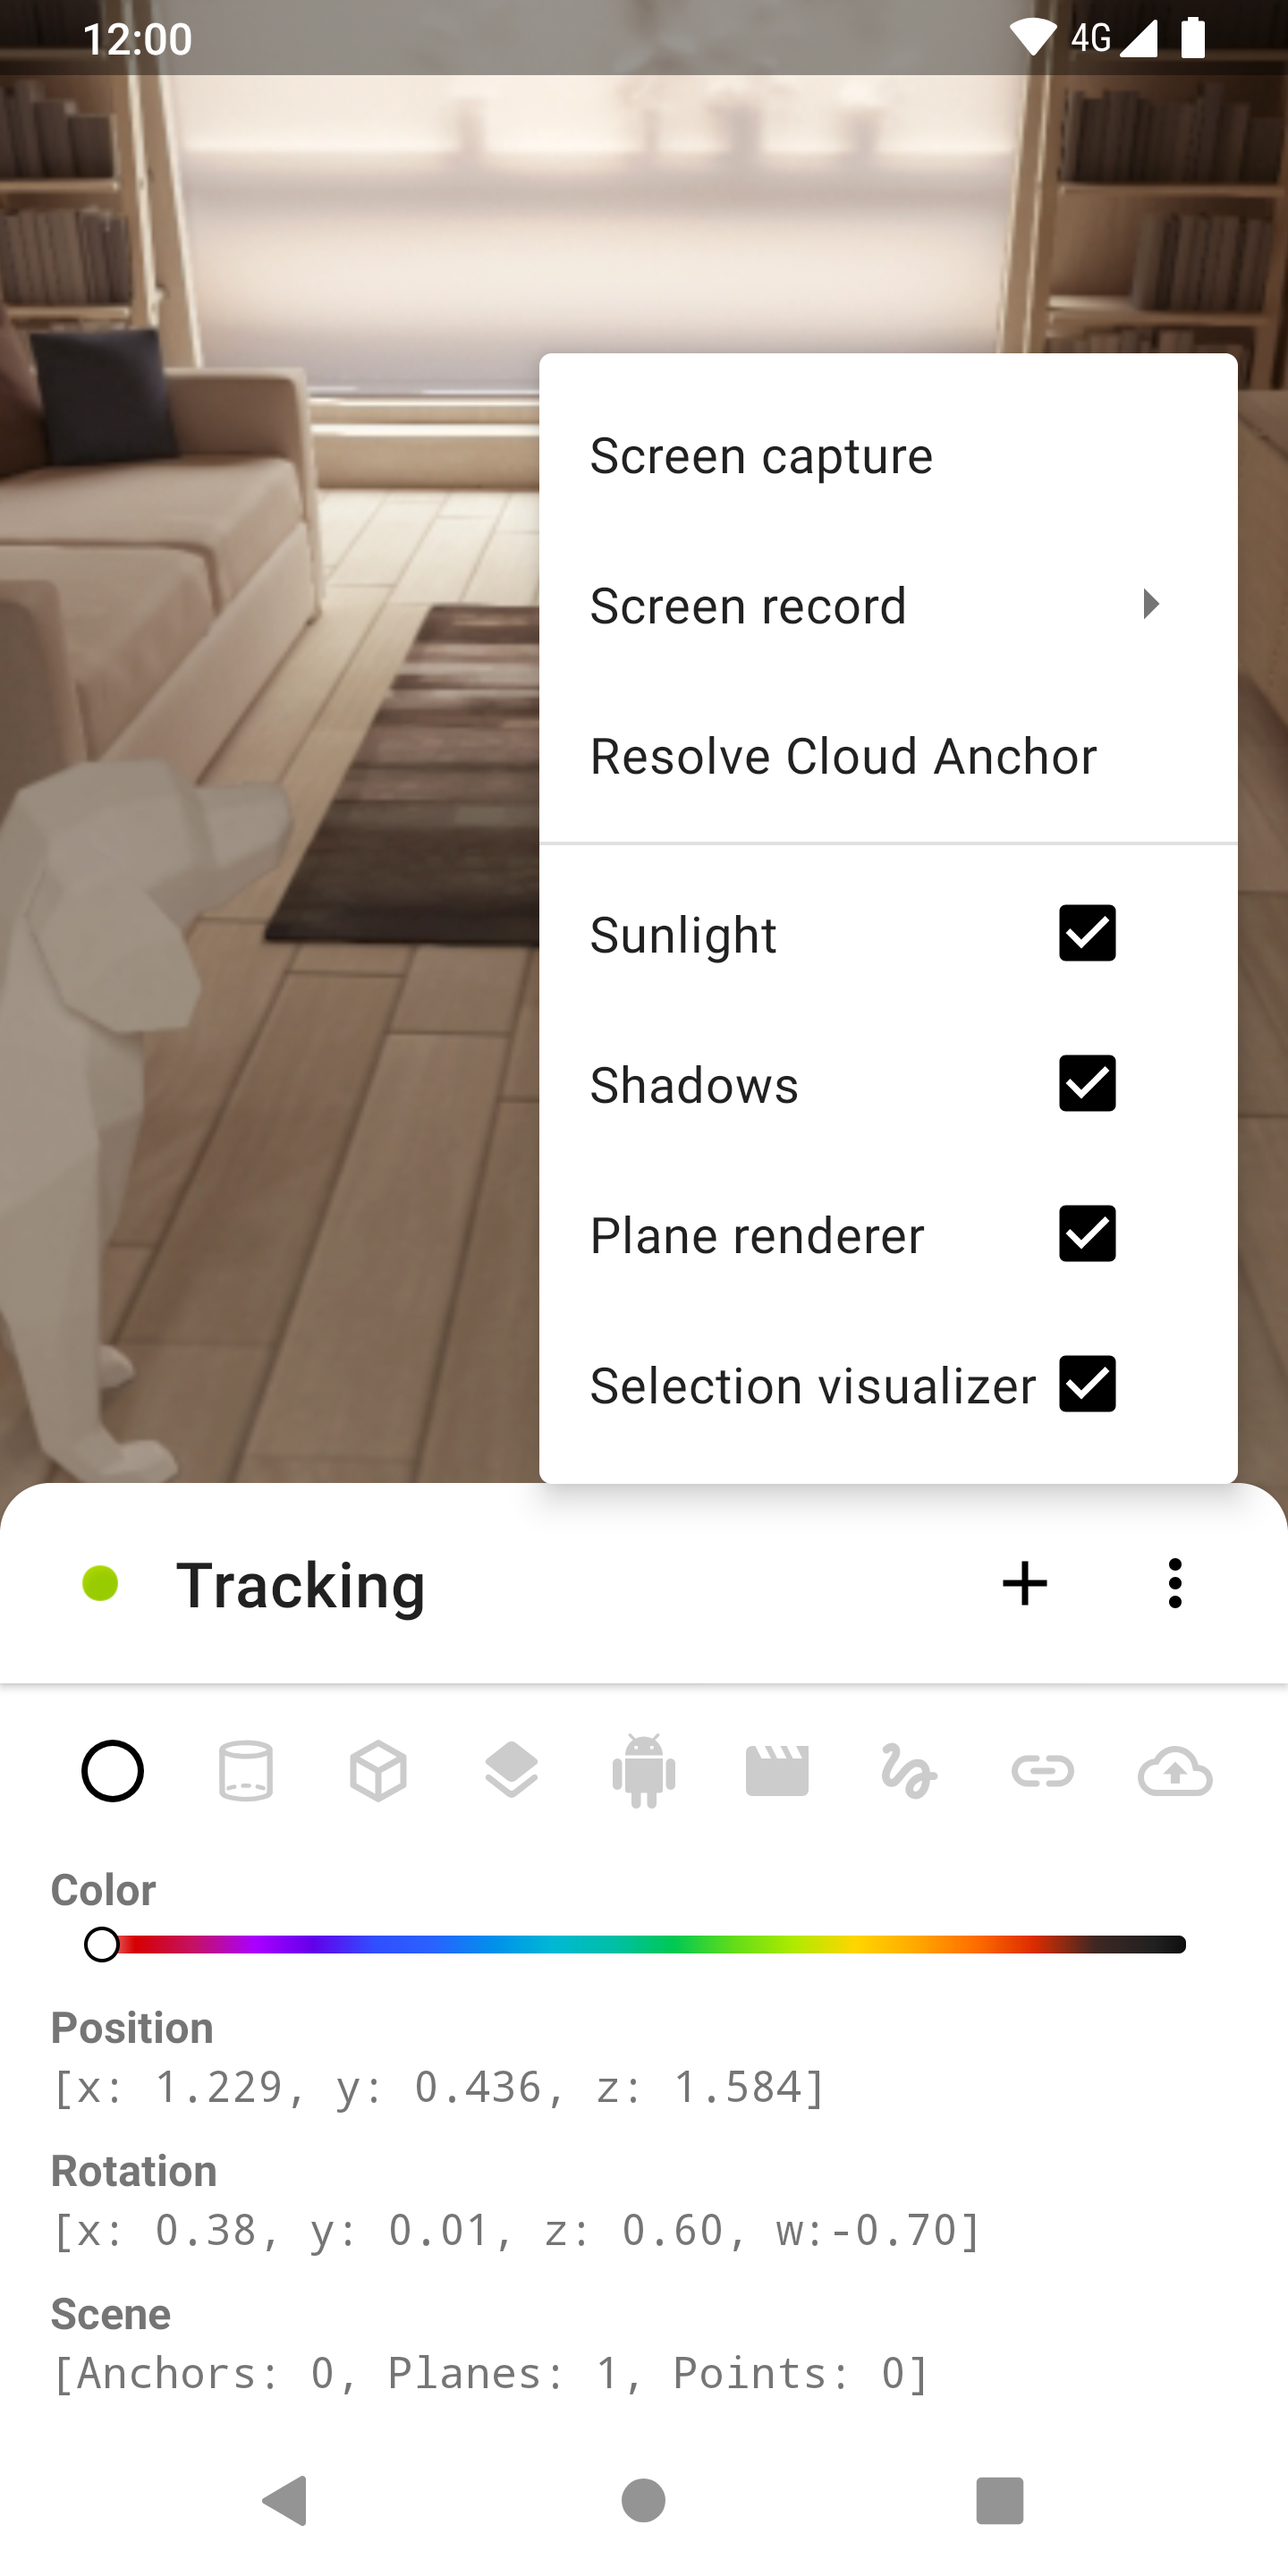
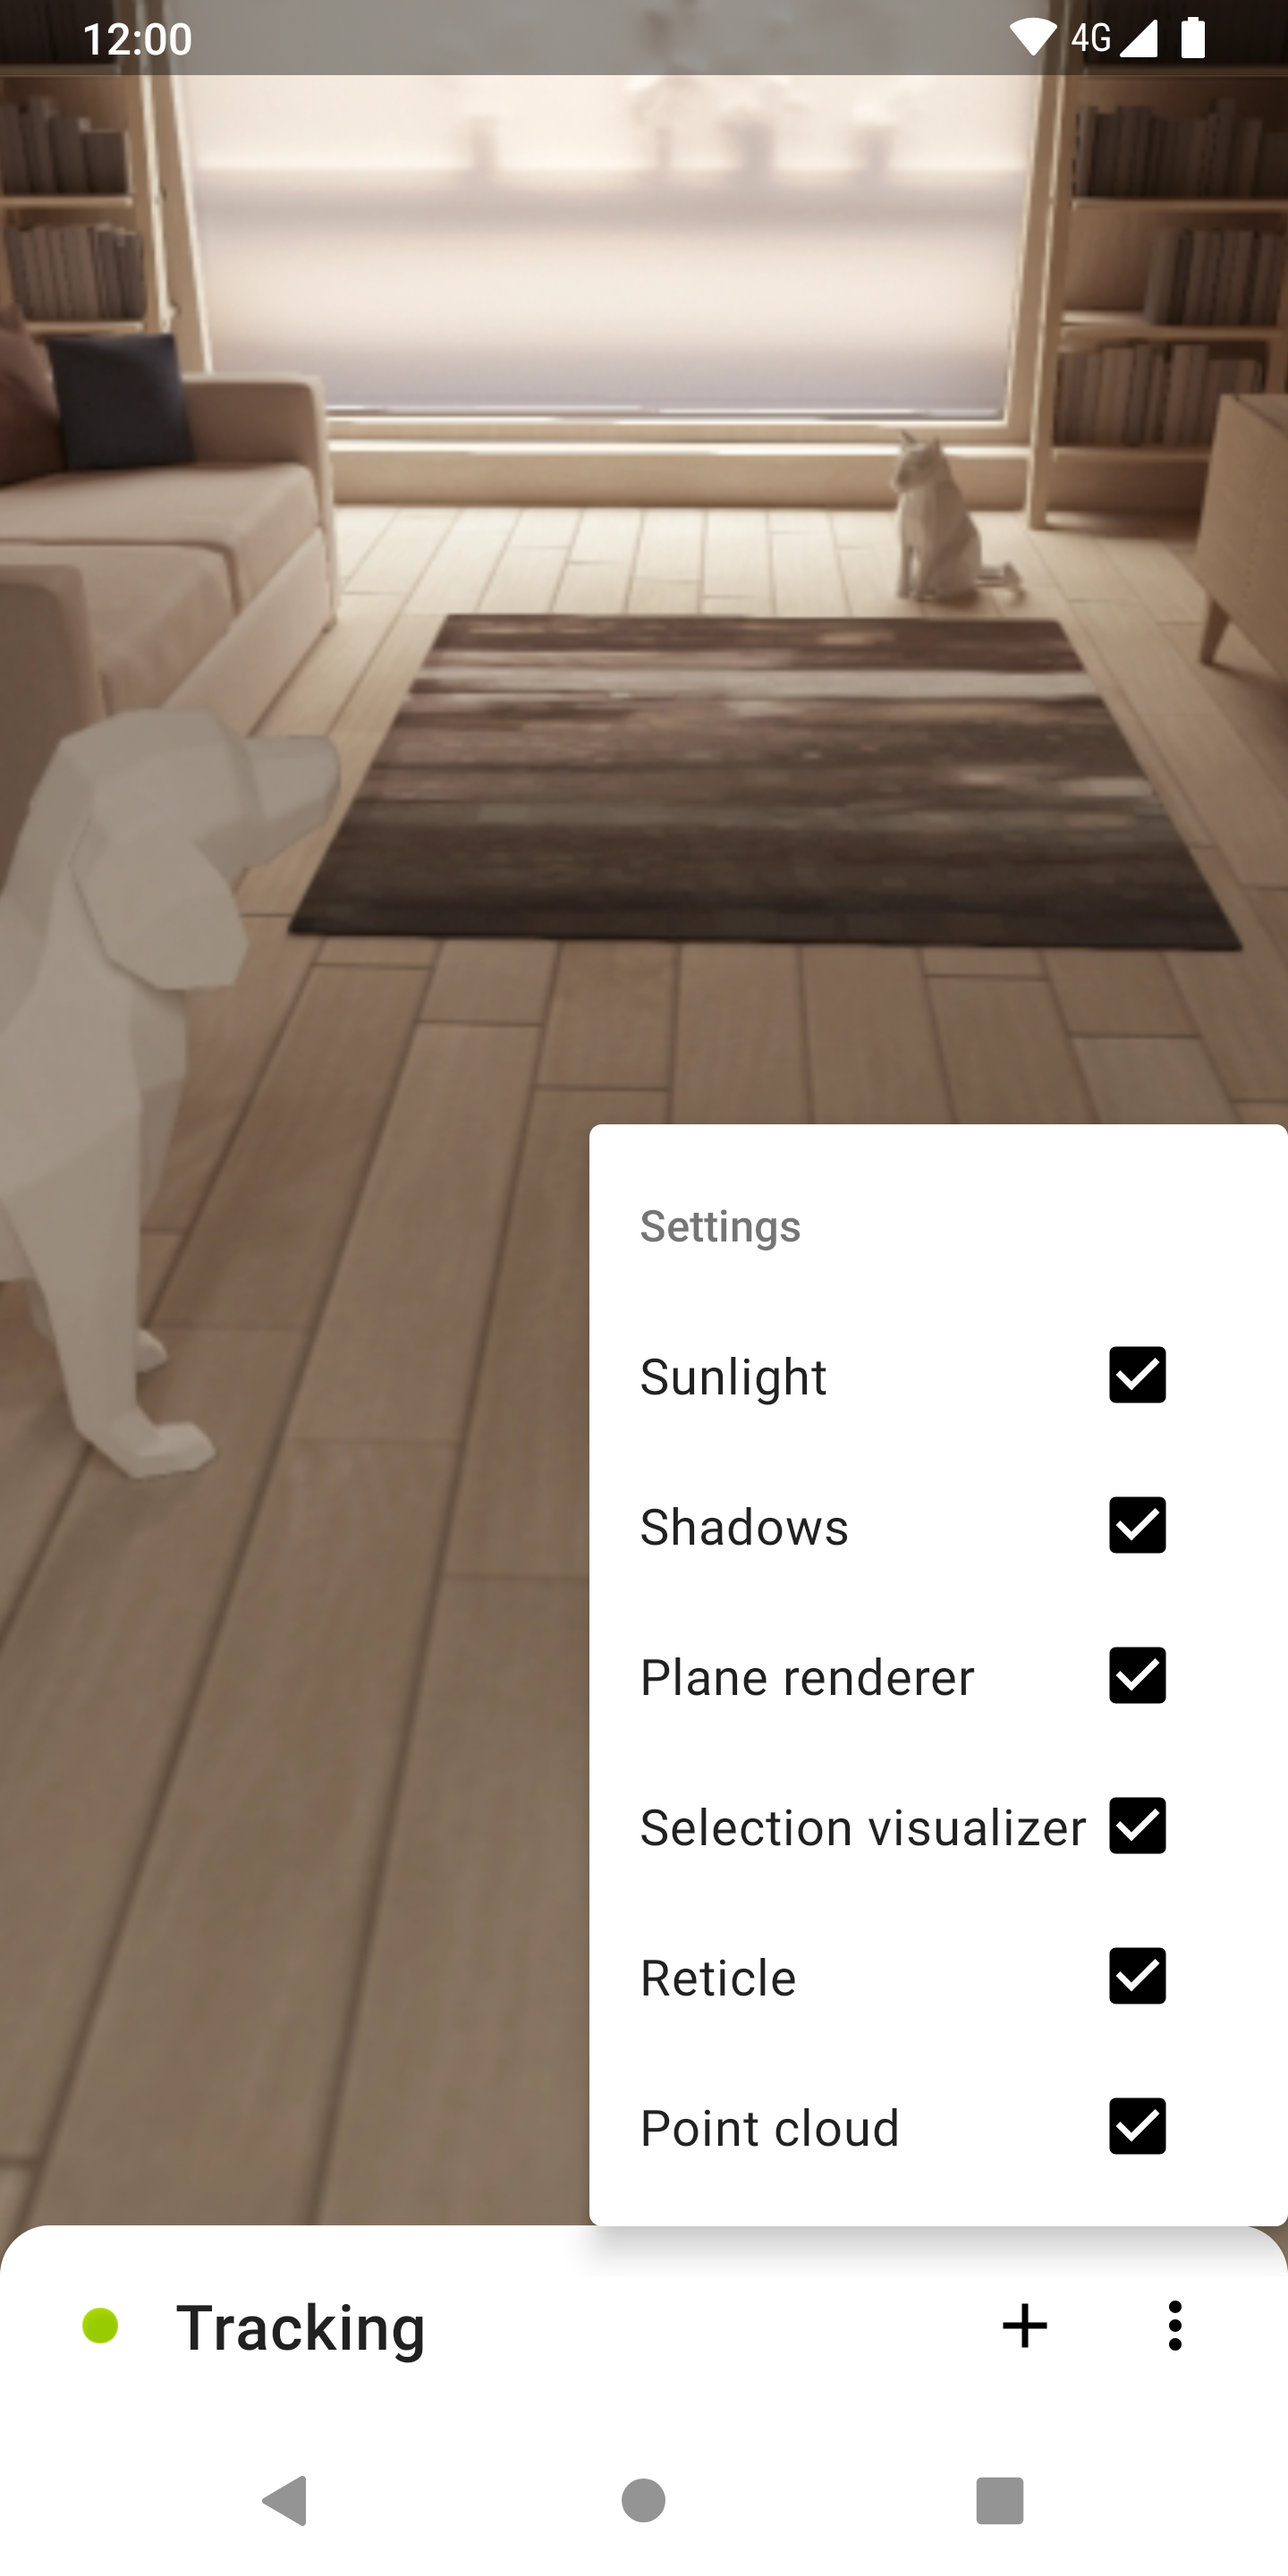
Update README.md CHANGELOG.md and screenshots

diff --git a/README.md b/README.md
@@ -10,9 +10,9 @@
 
 <br>
 
-| Scene | Settings | Models |
-|---|---|---|
-| ![](art/screenshot_scene.png) | ![](art/screenshot_settings.png) | ![](art/screenshot_models.png) |
+| Scene | Models | Options | Settings |
+|---|---|---|---|
+| ![](art/screenshot_scene.png) | ![](art/screenshot_models.png) | ![](art/screenshot_options.png) | ![](art/screenshot_settings.png) |
 
 ### Features
 
@@ -23,6 +23,7 @@
 - **[Gestures](https://developers.google.com/ar/develop/java/sceneform/build-scene)**: Drag, Rotate, Scale
 - **[Augmented images](https://developers.google.com/ar/develop/java/augmented-images/)**: Tracks the application logo
 - **[Cloud anchors](https://developers.google.com/ar/develop/java/cloud-anchors/overview-android)**: Host, share and resolve anchors
+- **[PointCloud](https://developers.google.com/ar/reference/java/arcore/reference/com/google/ar/core/PointCloud)**: Feature points
 - **[Screen capture & recording](https://developers.google.com/ar/develop/java/sceneform/video-recording)**: 480p, 720p, 1080p, 2160p
 
 ## Credits

diff --git a/CHANGELOG.md b/CHANGELOG.md
@@ -4,6 +4,7 @@
 
 <!-- MarkdownTOC -->
 
+- [1.6.0](#160)
 - [1.5.0](#150)
 - [1.4.0](#140)
 - [1.3.0](#130)
@@ -15,6 +16,13 @@
 <!-- /MarkdownTOC -->
 </details>
 
+## 1.6.0
+> 2019.09.08
+
+- ☁ PointCloud: display detected feature points
+- ⭕ Reticle: footprint of plane at screen center
+- ⚙ Refactor settings popup menu
+
 ## 1.5.0
 > 2019.08.18
 
@@ -24,7 +32,7 @@
 - 🛠 Improve gesture handling and bottomsheet display
 - 👆 Tap outside to deselect a node
 - 👁 Layout node always facing the camera
-- 🐛 Fix Layout node crash and invisible Cube node 
+- 🐛 Fix Layout node crash and invisible Cube node
 
 ## 1.4.0
 > 2019.07.28
